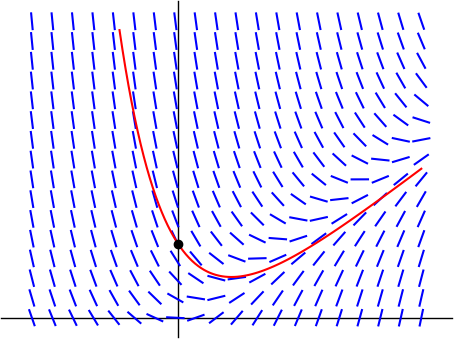
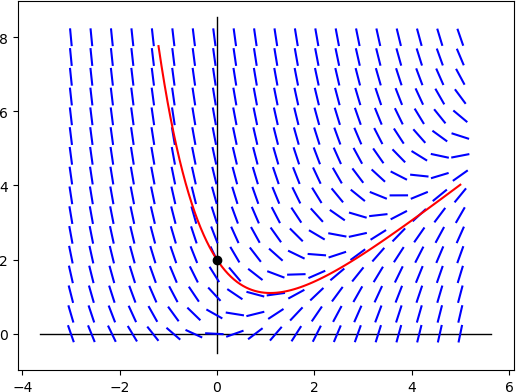
progress on slides

diff --git a/assets/slides/2-1.tex b/assets/slides/2-1.tex
@@ -1,7 +1,7 @@
 \documentclass{beamer}
 
 \usepackage[utf8]{inputenc}
-\usepackage{fancybox}
+\usepackage{fancybox,fancyvrb}
 \usepackage{environ}
 \usepackage{tikz}
 
@@ -94,6 +94,8 @@ $$-3 \le x \le 3, -3 \le y \le 3$$
     \begin{itemize}
     \item for computer tools,  see ``found online'' at the \href{https://bueler.github.io/math302/week2.html}{\color{blue} Week 2 tab}
     \end{itemize}
+
+\medskip
 \item \emph{Example.}  Use a computer to draw a direction field for
 $\frac{dy}{dx} = x-y$ on the square $-3 \le x \le 3, -3 \le y \le 3$
 
@@ -101,7 +103,13 @@ $\frac{dy}{dx} = x-y$ on the square $-3 \le x \le 3, -3 \le y \le 3$
 \emph{Solution}:
 
 \vspace{-3mm}
-\hfill \includegraphics[width=0.55\textwidth]{figs/example-field} \phantom{as dfjadl dsf}
+\hfill \includegraphics[width=0.5\textwidth]{figs/example-field} \phantom{as dfjadl dsf}
+
+\medskip
+\scriptsize
+\texttt{def f(x,y):  return x - y}  \hfill $\longleftarrow$ \emph{from my Python code}
+
+\texttt{dirfield(f,[-3,3,-3,3],mx=12,my=12)}
 \end{itemize}
 \end{frame}
 
@@ -113,15 +121,59 @@ $\frac{dy}{dx} = x-y$ on the square $-3 \le x \le 3, -3 \le y \le 3$
 \item \emph{next main idea}:  one can \emph{see} the solution to an ODE IVP by plotting the initial point in the plane and then following the direction field from that point
 
 \bigskip
-\item \begin{minipage}[t]{0.37\textwidth}
+\item \begin{minipage}[t]{0.32\textwidth} \small
 \emph{Example.}  Use the direction field for
 $\frac{dy}{dx} = x-y$ to sketch the solution of
-    $$\frac{dy}{dx} = x-y, \quad y(0)=2$$
+    $$\frac{dy}{dx} = x-y, \, y(0)=2$$
 \end{minipage}
 
 \vspace{-25mm}
-\hfill \includegraphics[width=0.5\textwidth]{figs/example-field-solution}
+\hfill \includegraphics[width=0.55\textwidth]{figs/example-field-solution}
 \end{itemize}
+\end{frame}
+
+
+\begin{frame}{exercise 9 in \S 2.1}
+
+\begin{columns}
+\begin{column}{0.45\textwidth}
+\small
+\noindent \textbf{9}.  \emph{Use computer software to obtain a direction field for the given differential equation.  By hand, sketch an approximate solution curve passing through each of the given points.}
+
+$$\frac{dy}{dx} = 0.2 x^2 + y$$
+
+\noindent \textbf{(a)} \quad $y(0)=\tfrac{1}{2}$
+
+\noindent \textbf{(b)} \quad $y(2)=-1$
+
+\vspace{10mm}
+
+\tiny
+\texttt{def f(x,y):}
+
+\hspace{3mm} \texttt{return 0.2*x**2 + y}
+
+\texttt{dirfield(f,[-2,5,-3,3],mx=12,my=12)}
+\end{column}
+\begin{column}{0.55\textwidth}
+
+\hspace{-10mm} \includegraphics[width=1.15\textwidth]{figs/exercise-9-2-1}
+\end{column}
+\end{columns}
+
+\end{frame}
+
+
+\begin{frame}{X}
+
+\begin{itemize}
+\item X
+\end{itemize}
+\begin{tabular}{c|c|c}
+ & autonomous & nonautonomous \\ \hline
+linear \Large\strut & $y' = c y$ & $y' + P(x) y = f(x)$ \\ \hline
+nonlinear \Large\strut & $y' = f(y)$ & $y'=f(x,y)$
+\end{tabular}
 \end{frame}
 
 
@@ -141,27 +193,27 @@ $\frac{dy}{dx} = x-y$ to sketch the solution of
 \end{frame}
 
 
-\begin{frame}{X}
+\begin{frame}{looking ahead to next two sections}
 
 \begin{itemize}
 \item X
 \end{itemize}
-\end{frame}
 
+\begin{tabular}{c|c|c}
+ & autonomous & nonautonomous \\ \hline
+linear \Large\strut & $y' = c y$ & $y' + P(x) y = f(x)$ \\ \hline
+nonlinear \Large\strut & $y' = f(y)$ & 
 
-\begin{frame}{X}
+\begin{minipage}{45mm}
+\medskip
 
-\begin{itemize}
-\item X
-\end{itemize}
-\end{frame}
-
-
-\begin{frame}{X}
-
-\begin{itemize}
-\item X
-\end{itemize}
+\small
+    \begin{tabular}{c|c}
+    separable & nonseparable \\ \hline
+    $y'=g(x)h(y)$ & $y'=f(x,y)$
+    \end{tabular}
+\end{minipage}
+\end{tabular}
 \end{frame}
 
 
@@ -176,6 +228,7 @@ to learn this material, just watching this video is \emph{not} enough; also
 \item see the other ``found online'' videos at bottom of this page:
 
 \centerline{\href{https://bueler.github.io/math302/week2.html}{\tt \color{cyan} bueler.github.io/math302/week2.html}}
+\item FIXME: regarding programming (optional) and interacting with computer (obligatory)
 \end{itemize}
 \end{frame}
 
